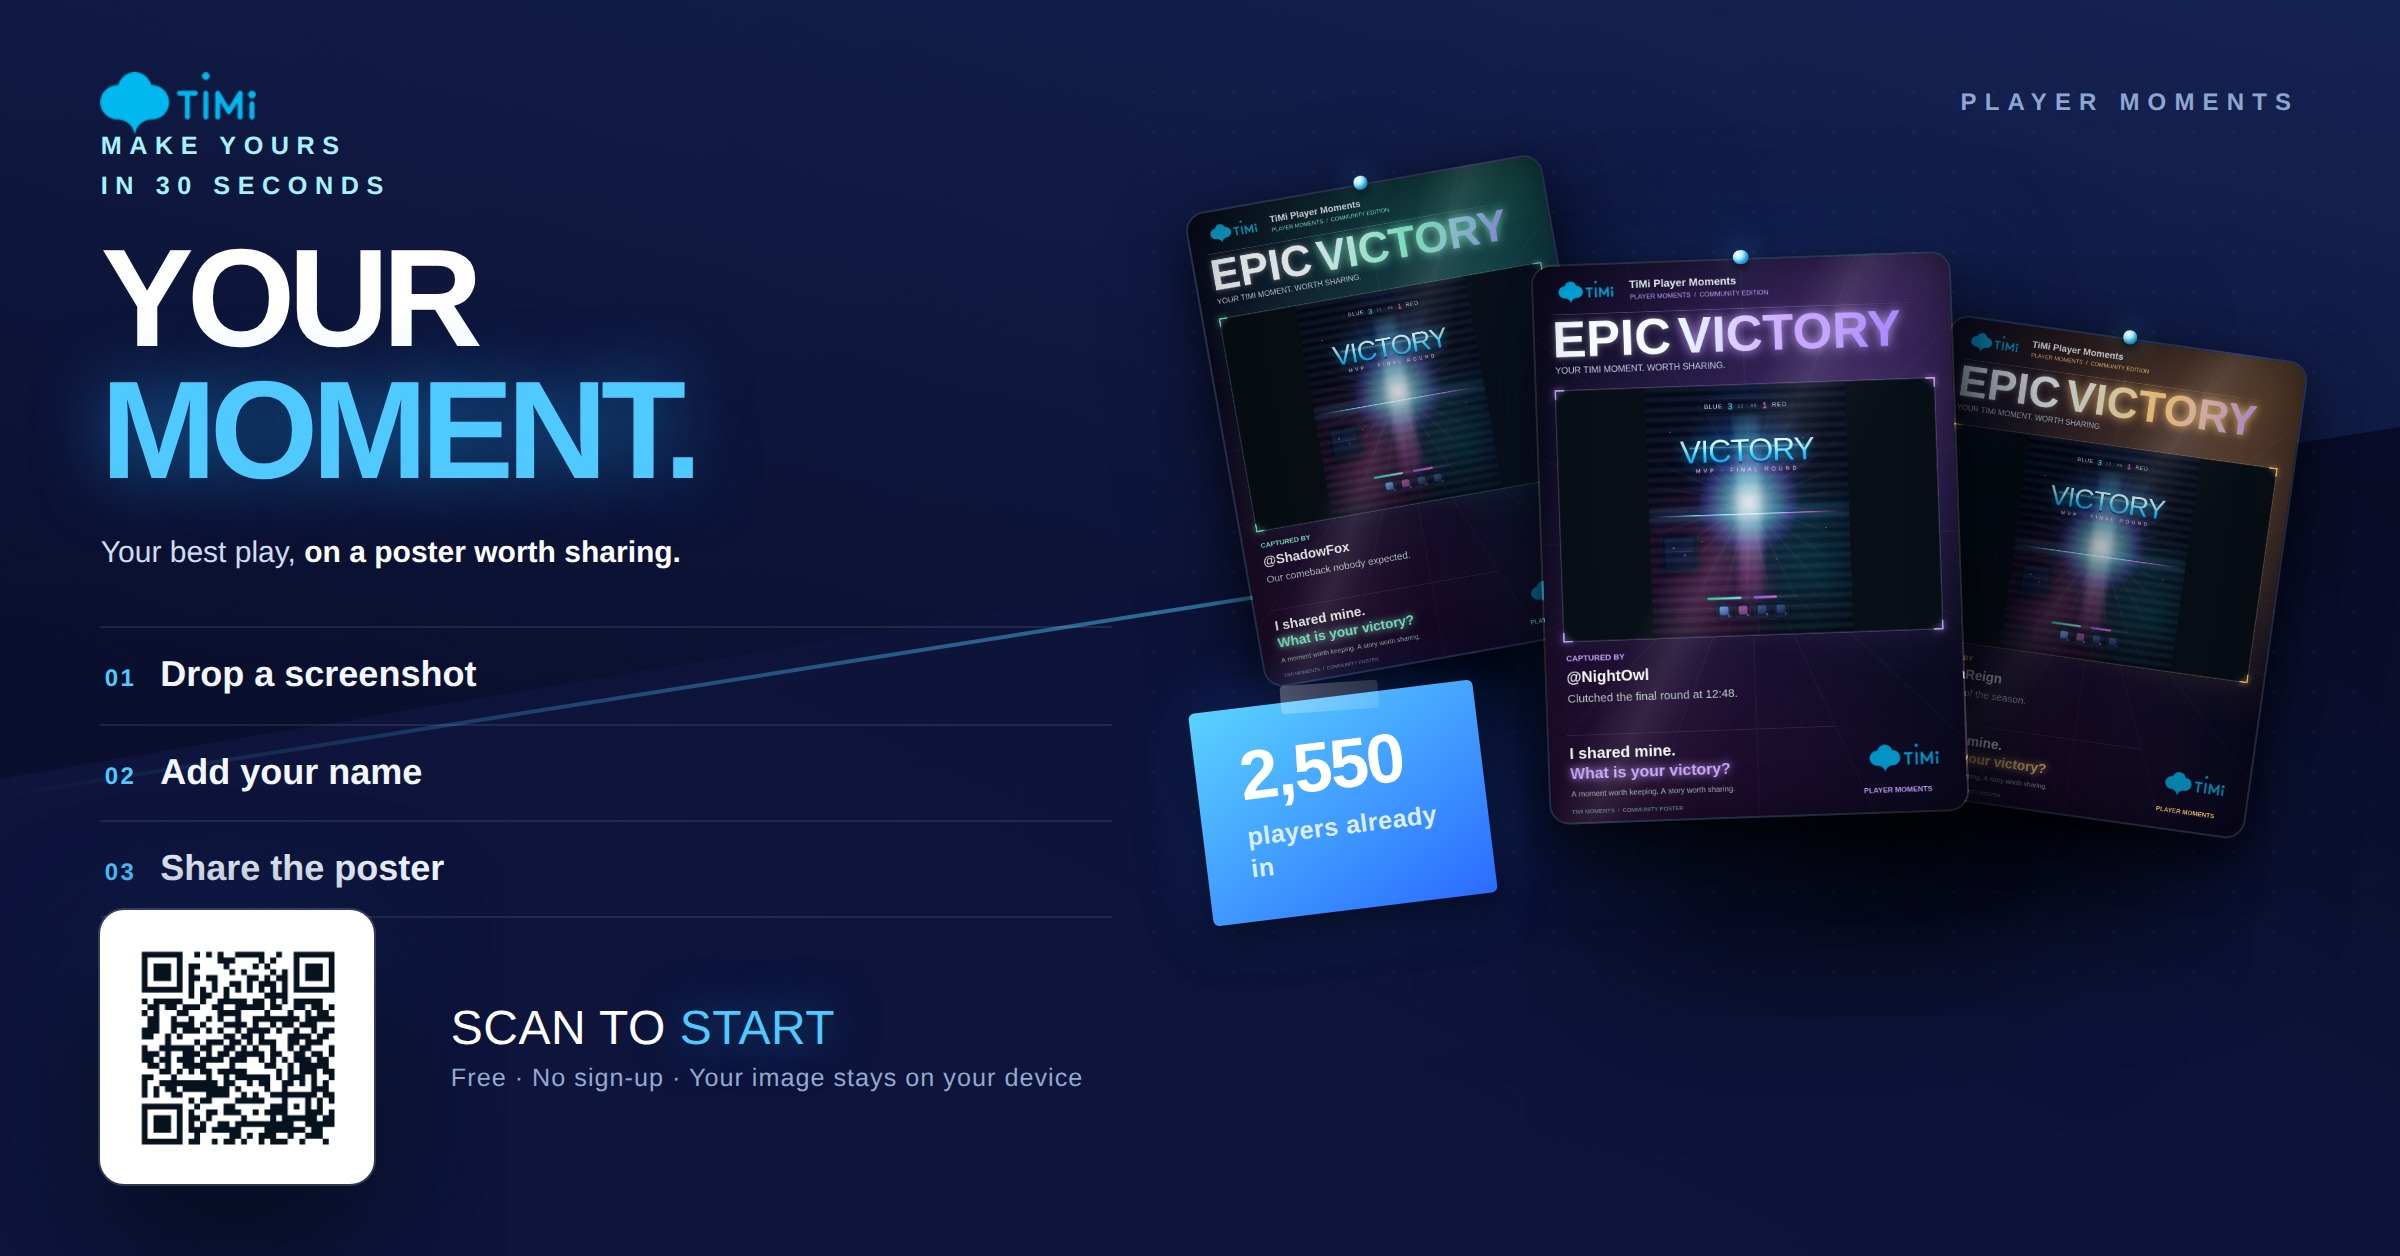
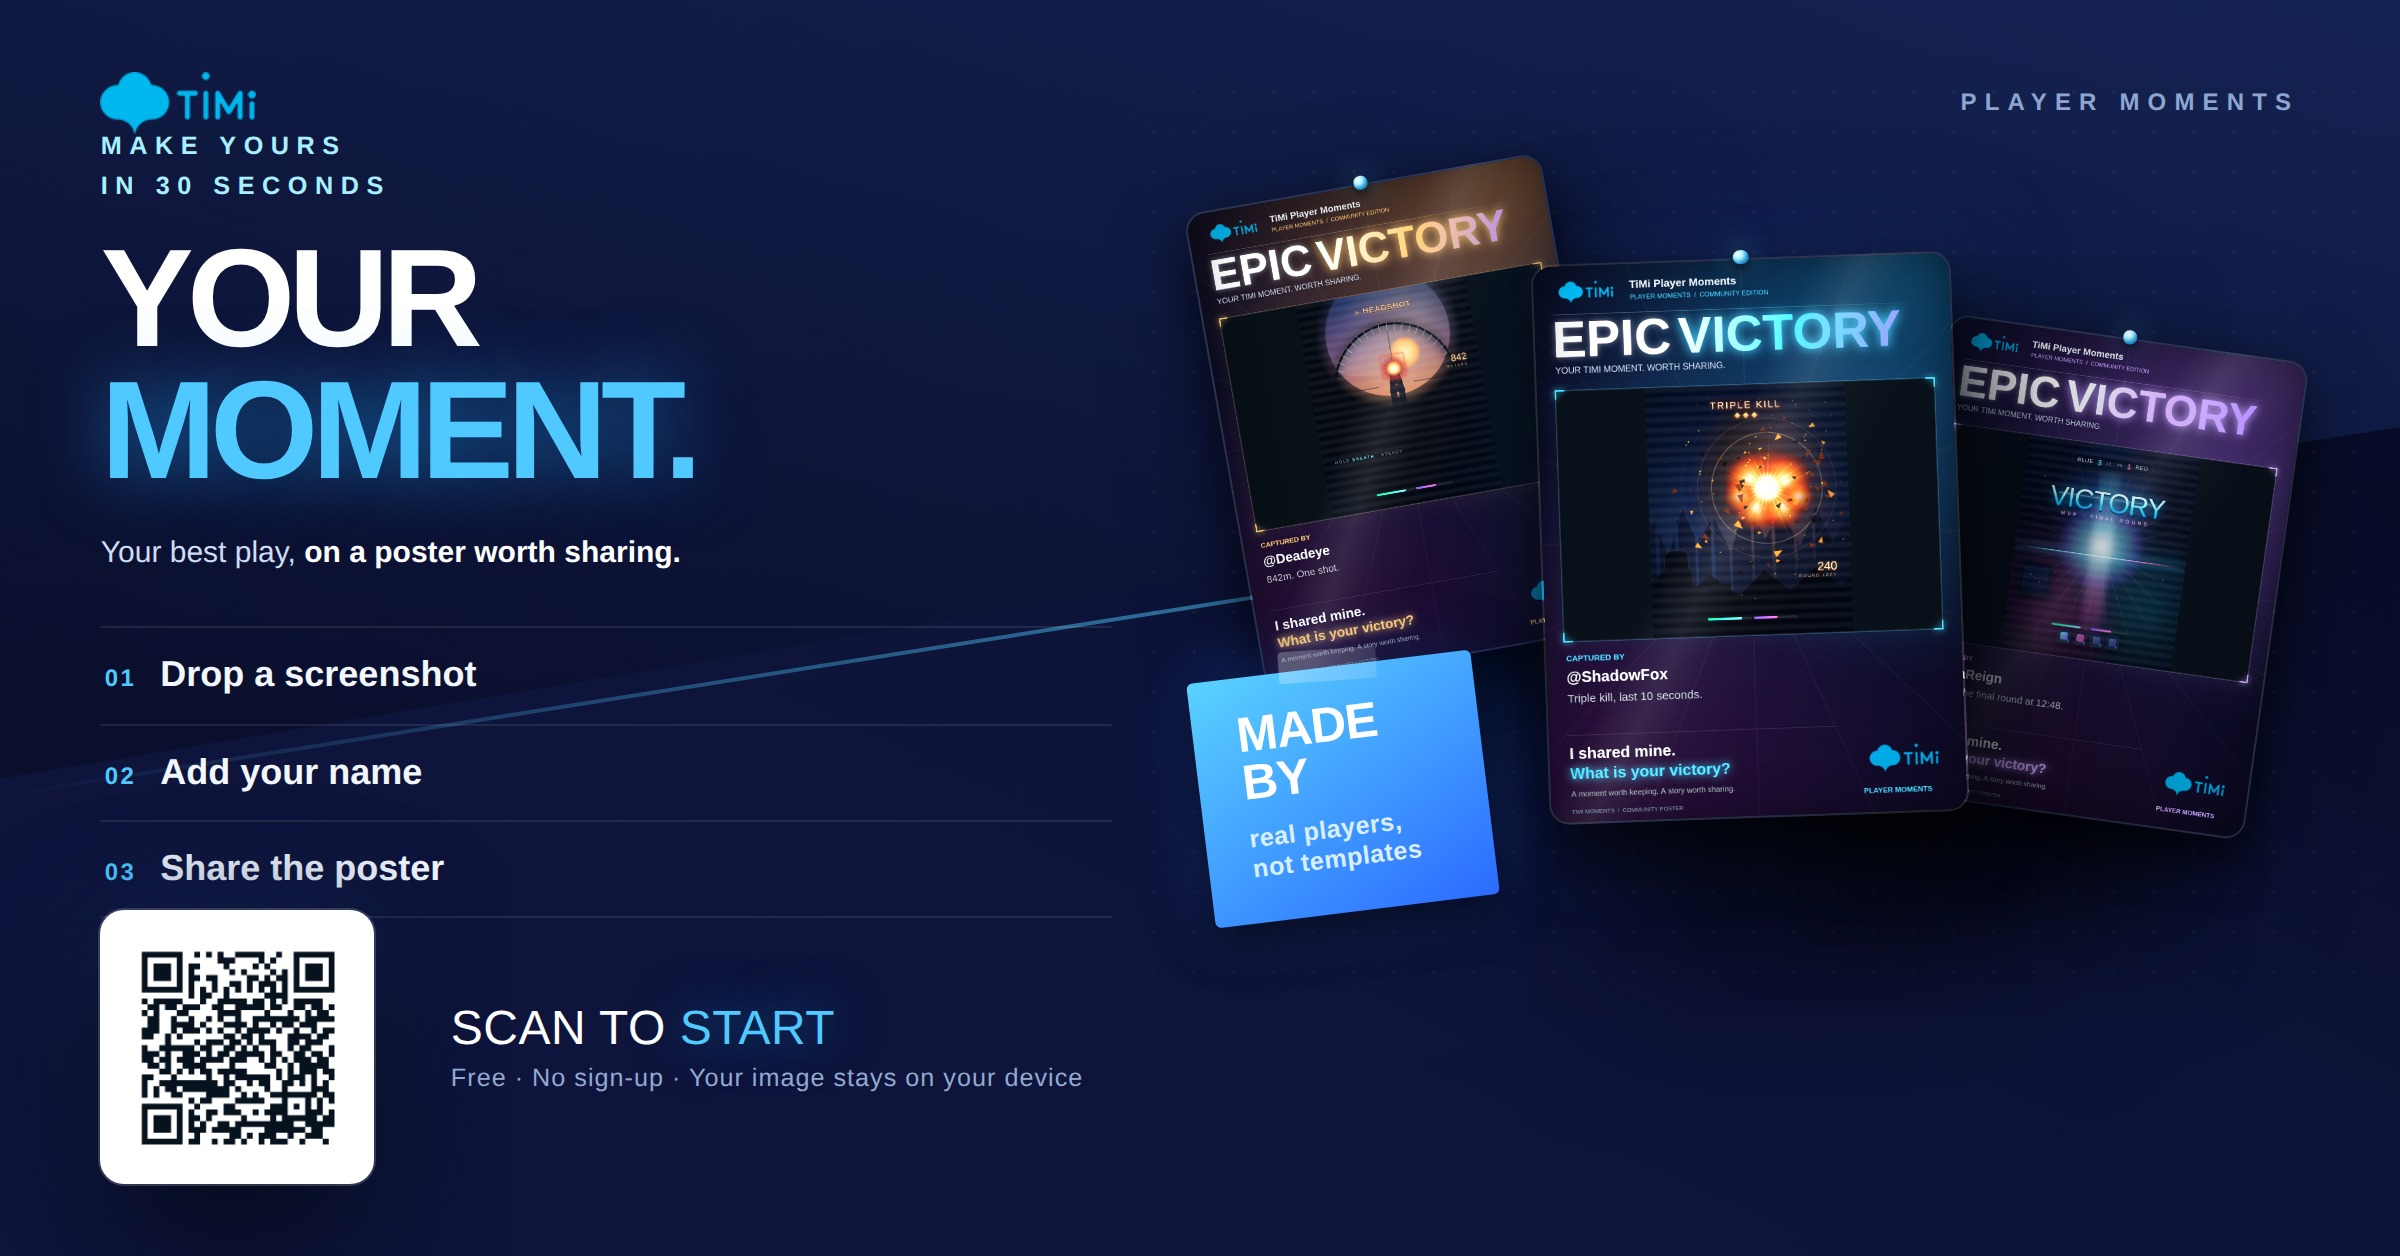
promo v11: three distinct player moments (sniper/assault/victory), drop member count

diff --git a/join/index.html b/join/index.html
@@ -169,9 +169,9 @@
       <h2>Made by players</h2>
       <p class="hint">Real posters from the community — swipe to see more</p>
       <div class="rail" id="rail">
-        <figure><img src="examples/small-example-violet.jpg" alt="Player poster by NightOwl" /><figcaption><b>@NightOwl</b> · final round clutch</figcaption></figure>
-        <figure><img src="examples/small-example-mint.jpg" alt="Player poster by ShadowFox" /><figcaption><b>@ShadowFox</b> · the comeback</figcaption></figure>
-        <figure><img src="examples/small-example-amber.jpg" alt="Player poster by NovaReign" /><figcaption><b>@NovaReign</b> · first MVP</figcaption></figure>
+        <figure><img src="examples/small-example-sniper.jpg" alt="Player poster by Deadeye" /><figcaption><b>@Deadeye</b> · 842m, one shot</figcaption></figure>
+        <figure><img src="examples/small-example-assault.jpg" alt="Player poster by ShadowFox" /><figcaption><b>@ShadowFox</b> · triple kill, last 10s</figcaption></figure>
+        <figure><img src="examples/small-example-victory.jpg" alt="Player poster by NovaReign" /><figcaption><b>@NovaReign</b> · final round clutch</figcaption></figure>
       </div>
     </section>
 
